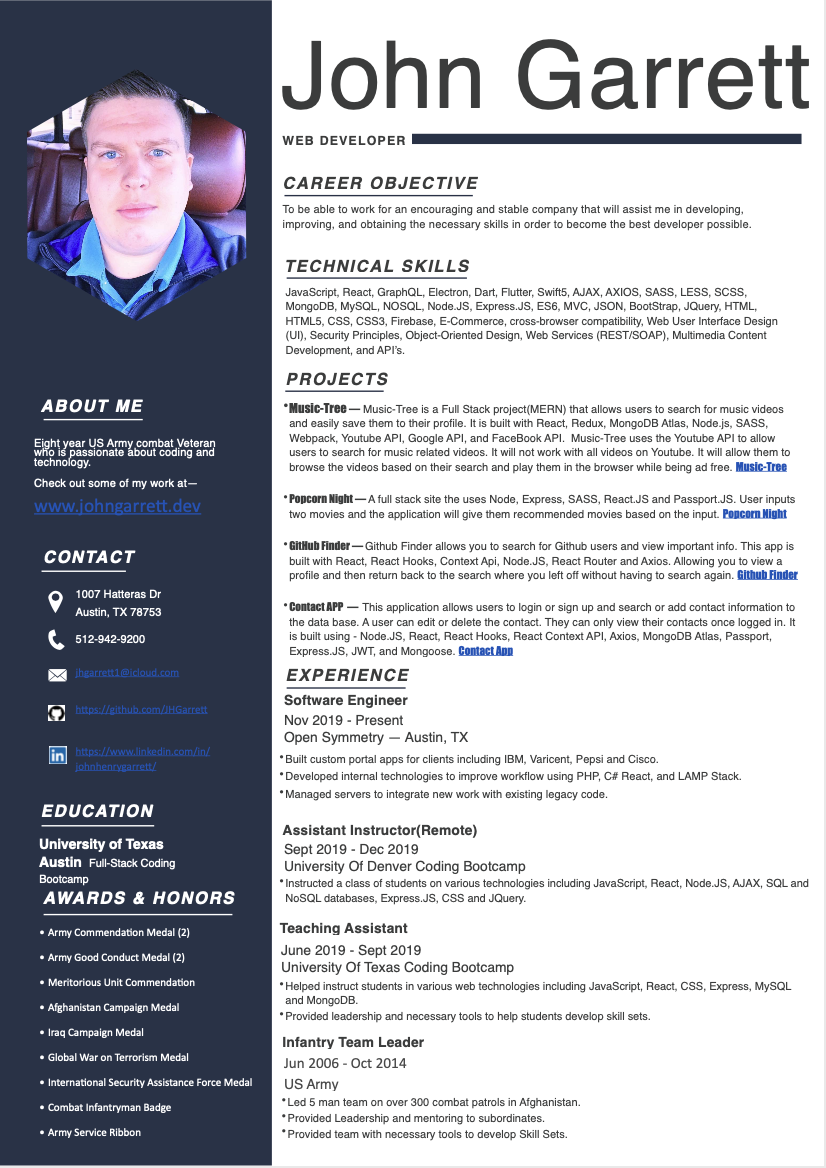
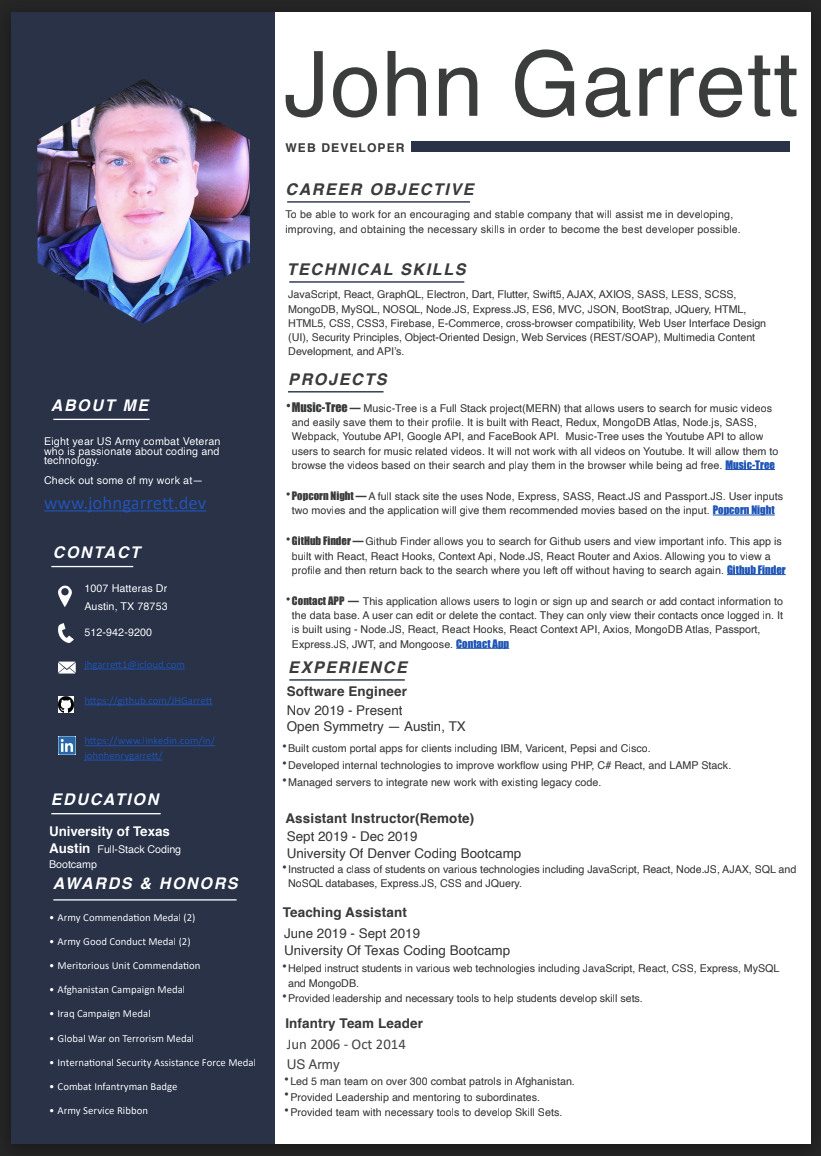
updated

Changed region(s): [[0.0, 0.0, 1.0, 1.0]]

diff --git a/index.html b/index.html
@@ -92,7 +92,7 @@
             </h2>
             <p>
              Eight year US Army combat Veteran Full stack developer who is passionate about coding and technology. 
-             <br> Some of my skills include - <br> JavaScript, React, GraphQL, Electron, Dart, Flutter, Swift5, SwiftUI,  AJAX, AXIOS, SASS/SCSS, LESS, Bulma, MongoDB, MySQL, NOSQL, Node.JS, Express.JS, ES6, MVC, JSON, BootStrap, JQuery, HTML, HTML5, CSS, CSS3, Firebase, cross-browser compatibility, Web User Interface Design (UI), Object- Oriented Design, Web Services (REST/SOAP), Multimedia Content Development, and more.
+             <br> Some of my skills include - <br> JavaScript, React, GraphQL, C#, Flutter, PHP, Swift5,  AJAX, AXIOS, SASS/SCSS, LESS, Bulma, MongoDB, MySQL, NOSQL, Node.JS, Express.JS, ES6, MVC, JSON, BootStrap, JQuery, HTML, CSS, Firebase, cross-browser compatibility, Web User Interface Design (UI), Object- Oriented Design, Web Services (REST/SOAP), Multimedia Content Development, and more.
              <br> 
             <h2>
               <a href="https://github.com/JHGarrett/Music-Tree" target="_blank"
